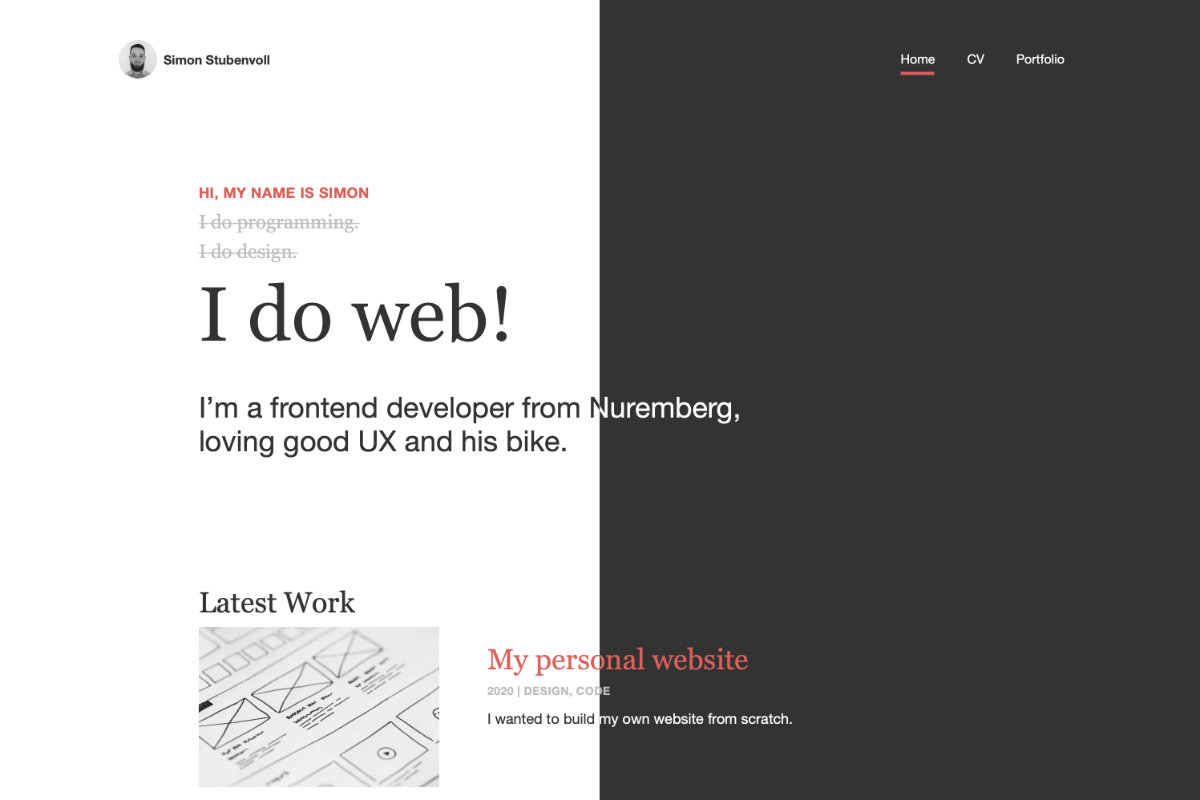
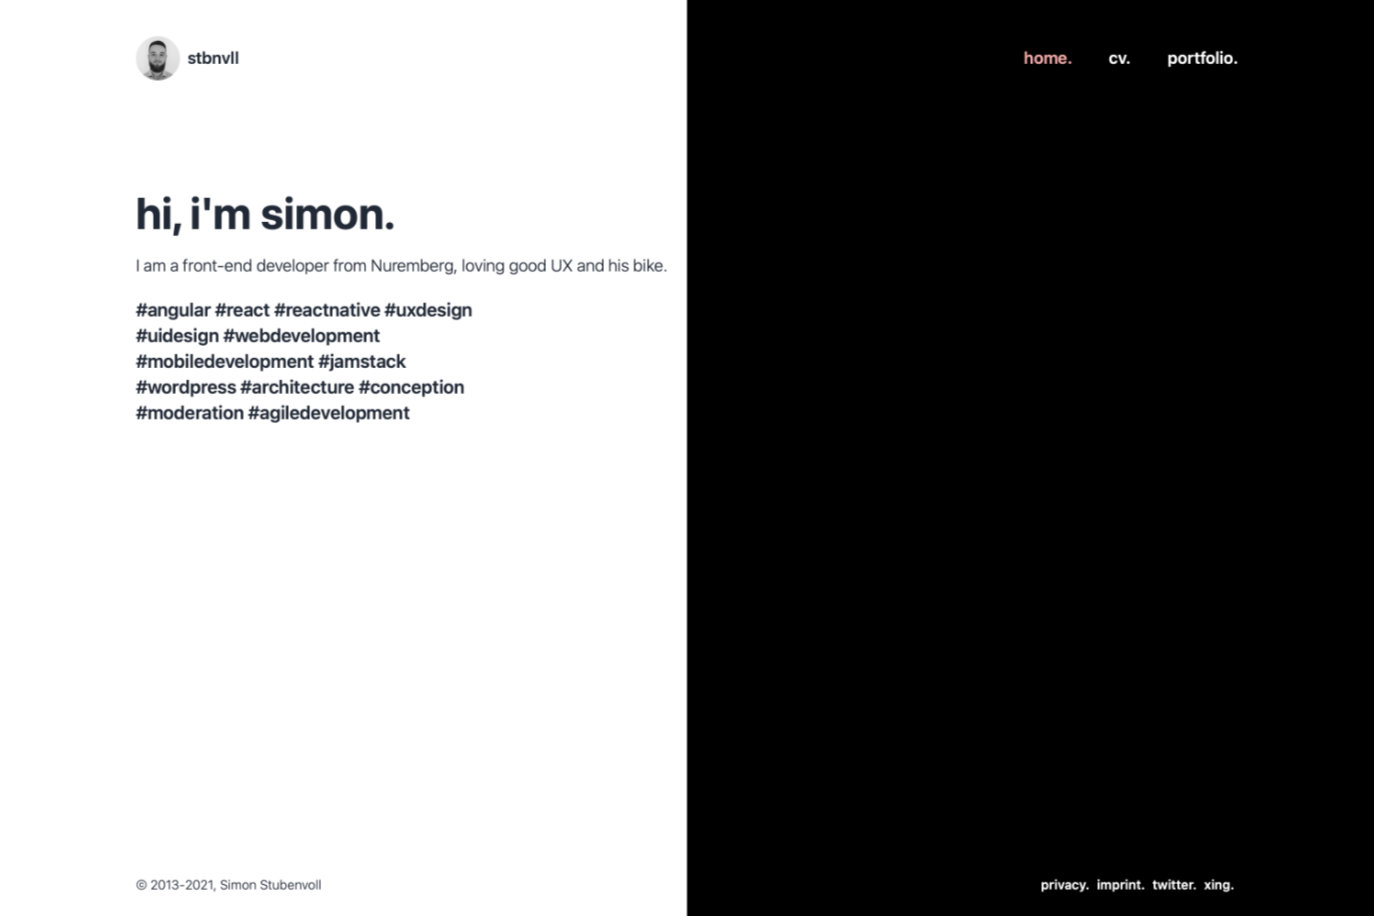
add new version to post

diff --git a/posts/my-personal-website.md b/posts/my-personal-website.md
@@ -5,13 +5,20 @@ teaser: I wanted to build my own website from scratch.
 layout: layouts/post.njk
 ---
 
-I've relaunched my website one or two times now, but somehow I was never really happy with it. After a while, it always bumbled along and rarely got new content. Most of the time I just wanted to try out a new framework or a special lib. Once that was done, I unconsciously checked the whole thing off.
+I've relaunched my website once or twice now, but somehow I was never really happy with it. After a while it always bumbled along and rarely got new content. Most of the time I just wanted to try out a new framework or a special lib. Once that was done, I subconsciously checked the whole thing off.
 
-With this sweetie here it should be different, I have already limited myself to the essentials in the design. The thing should go live as soon as possible in its first version and also look good. I do have a lot of ideas for further extensions, visible or under the hood. So stay tuned.
+With this sweetie here that should be different. So I needed a rock solid base to build on again and again whenever I wanted to. My choice therefore fell on <a href="https://www.11ty.dev/" target="_blank" rel="noopener noreferrer">11ty</a>, the styling was handmade at the beginning. I wanted to go live with a first version as soon as possible.
 
 <figure>
-  <img src="{{ '/img/posts/my-personal-website/home.jpg' | url }}">
-  <figcaption>Light on, light off</figcaption>
+  <img src="{{ '/img/posts/my-personal-website/home-v1.jpg' | url }}">
+  <figcaption>First version, light and dark</figcaption>
 </figure>
 
-In total, I've been sitting on the site for maybe just under a month, after work on weekends and days off. It was built with <a href="https://www.11ty.dev/" target="_blank" rel="noopener noreferrer">11ty</a>, the styling was done by me. I wanted to keep everything as lightweight as possible, so I was able to do well without massive frameworks. You can find the repository <a href="https://github.com/stbnvll/simonstubenvoll/" target="_blank" rel="noopener noreferrer">here</a>.
+A few weeks later I decided to take the help of <a href="https://www.tailwindcss.com" target="_blank" rel="noopener noreferrer">Tailwind CSS</a> and redesign the face of my website a bit. Content and structure should not change, I had already laid the foundation for that.
+
+<figure>
+  <img src="{{ '/img/posts/my-personal-website/home-v2.jpg' | url }}">
+  <figcaption>Second version, light and dark</figcaption>
+</figure>
+
+No idea what will happen next. But if you're interested, you're welcome to drop by from time to time or even take a look at the <a href="https://github.com/stbnvll/simonstubenvoll/" target="_blank" rel="noopener noreferrer">repository</a>.
